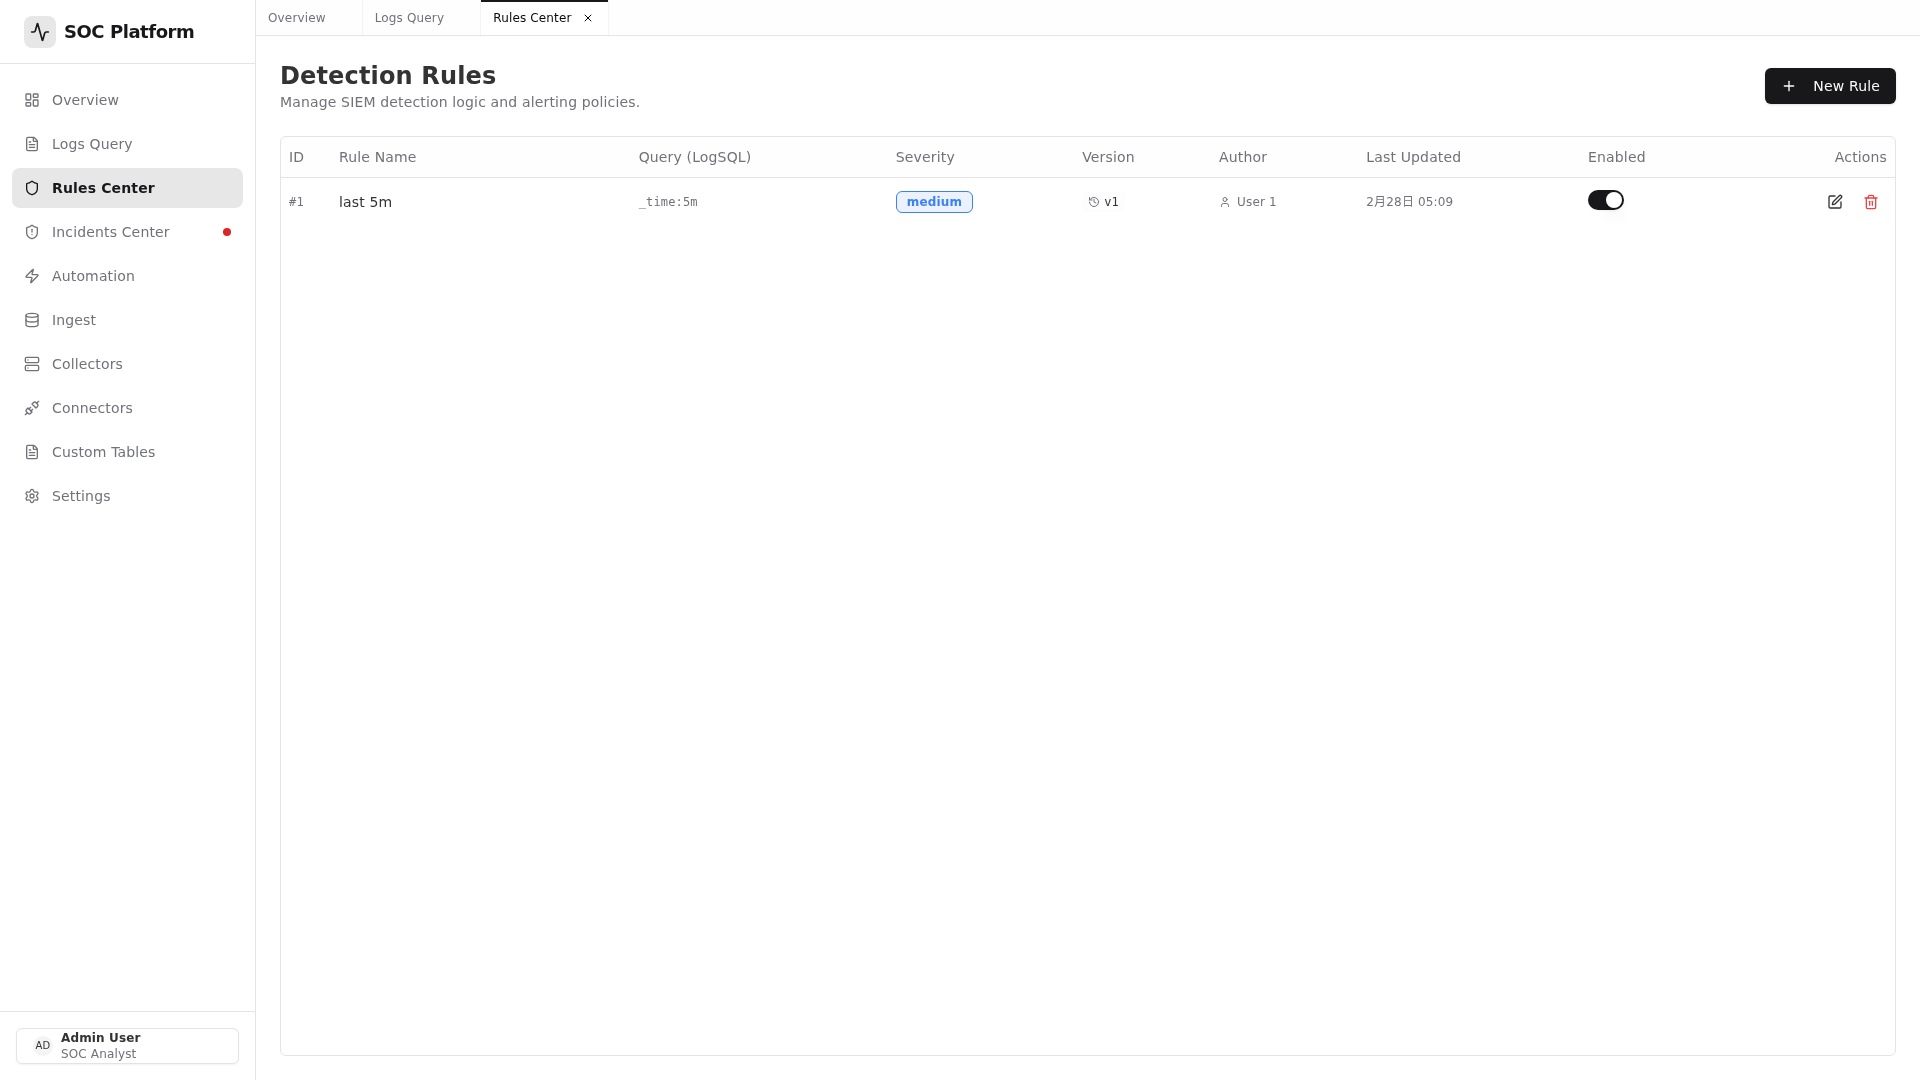
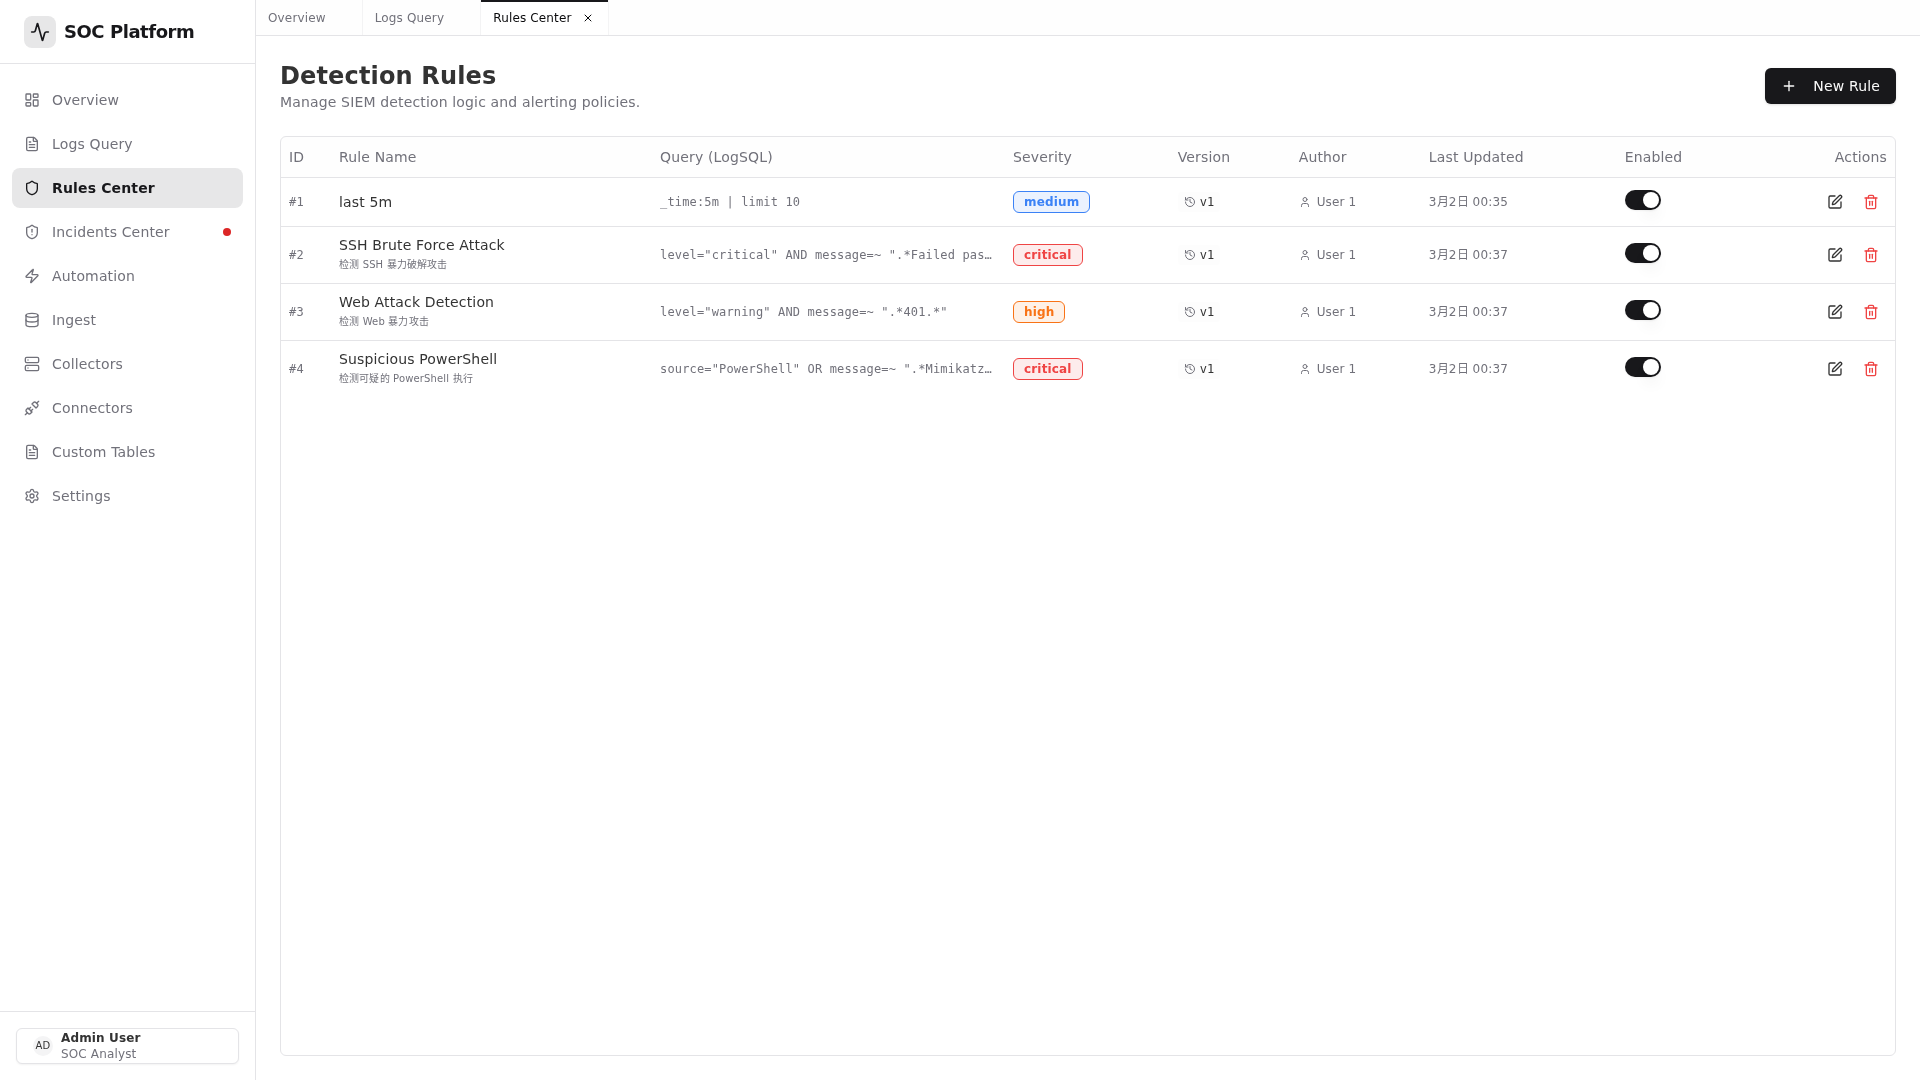
docs: 更新 README 截图并添加中文描述
- 更新 Dashboard、Logs、Rules、Incidents、Automation、Collectors、Settings 截图
- 添加中文功能描述，让文档更易读
- 添加了 3 个检测规则示例：SSH 暴力破解、Web 攻击、可疑 PowerShell

diff --git a/README.md b/README.md
@@ -43,34 +43,46 @@ VSentry is an open-source SIEM (Security Information and Event Management) + SOA
 
 ## 📸 Screenshots
 
+### 1. Dashboard - 安全总览
 <p align="center">
   <img src="docs/screenshots/readme-dashboard.png" alt="Dashboard" width="800">
-  <br><em>Dashboard - Security Overview</em>
+  <br><em>实时安全态势感知，展示告警数量、严重程度分布、最近活动等关键指标</em>
 </p>
 
+### 2. Logs - 日志查询与分析
 <p align="center">
   <img src="docs/screenshots/readme-logs.png" alt="Logs" width="800">
-  <br><em>Logs - Search and analyze logs with LogSQL</em>
+  <br><em>基于 LogSQL 的强大日志查询，支持时间范围过滤、实时搜索、JSON/表格/分组多种视图</em>
 </p>
 
+### 3. Rules - 检测规则管理
 <p align="center">
   <img src="docs/screenshots/readme-rules.png" alt="Rules" width="800">
-  <br><em>Rules - Detection rules with cron scheduling</em>
+  <br><em>创建和管理检测规则，支持 Cron 定时调度、规则模板、启用/禁用控制</em>
 </p>
 
+### 4. Incidents - 事件管理
 <p align="center">
   <img src="docs/screenshots/readme-incidents.png" alt="Incidents" width="800">
-  <br><em>Incidents - Track and manage security incidents</em>
+  <br><em>安全事件全生命周期管理，支持分配、确认、处理、分类等操作</em>
 </p>
 
+### 5. Automation - SOAR 自动化编排
 <p align="center">
   <img src="docs/screenshots/readme-automation.png" alt="Automation" width="800">
-  <br><em>Automation - SOAR workflow with React Flow</em>
+  <br><em>可视化剧本编排，连接检测规则与响应动作，支持 HTTP、邮件、条件分支等动作</em>
 </p>
 
+### 6. Collectors - 日志采集器
+<p align="center">
+  <img src="docs/screenshots/readme-collectors.png" alt="Collectors" width="800">
+  <br><em>构建跨平台日志采集器（Windows/Linux/macOS），一键生成配置文件</em>
+</p>
+
+### 7. Settings - 系统配置
 <p align="center">
   <img src="docs/screenshots/readme-settings.png" alt="Settings" width="800">
-  <br><em>Settings - Configure system and collectors</em>
+  <br><em>系统管理：用户管理、采集器配置、接入点管理、外观设置</em>
 </p>
 
 ## 🏗 Architecture
